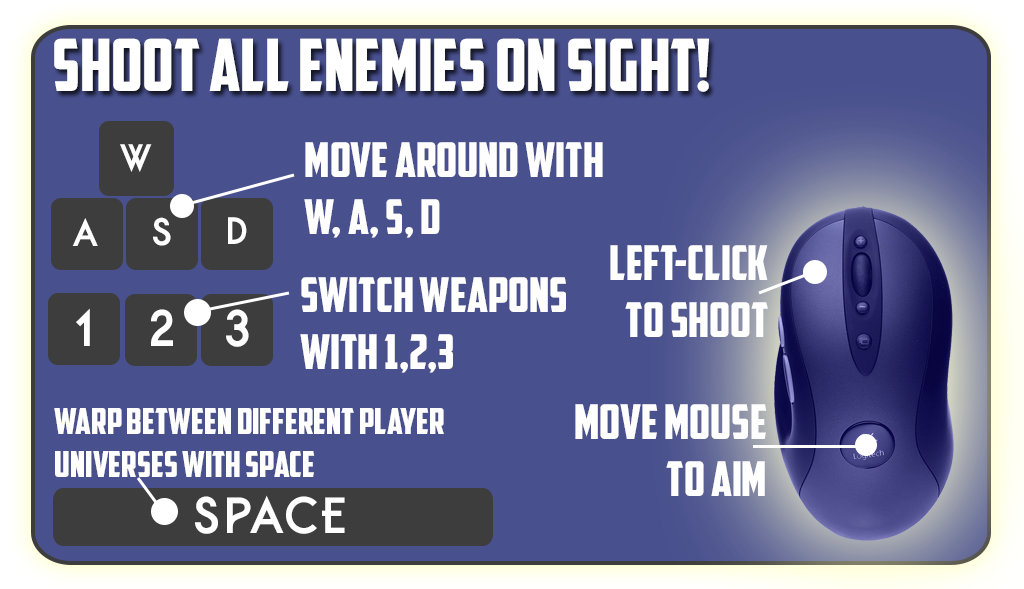
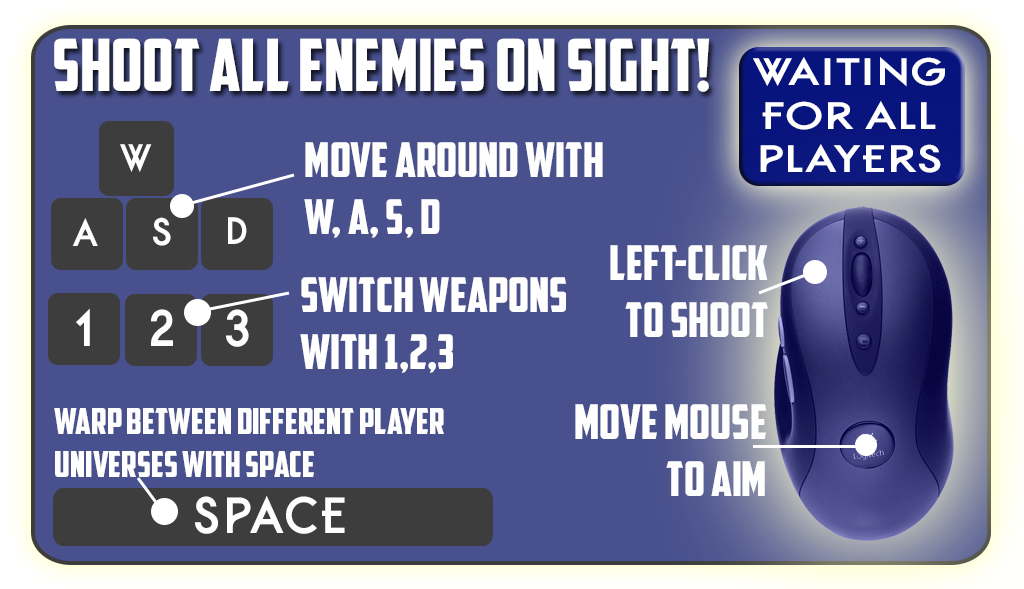
Game pause and countdown

Changed region(s): [[0.6875, 0.0306, 0.9688, 0.3667]]

diff --git a/Assets/Scripts/hud/HudOn.cs b/Assets/Scripts/hud/HudOn.cs
@@ -29,6 +29,8 @@ public class HudOn : MonoBehaviour {
 	private GUIStyle bank = new GUIStyle();
     public int startLivesNb;
 
+	private int countdownVal = 6;
+
 	public static Vector3 vortpointOut;
 	private bool showCountdown, showHelp;
 	public static float score;
@@ -248,6 +250,11 @@ public class HudOn : MonoBehaviour {
         }
     }
 
+	public void DisplayCountdown(int num) {
+		// Switch here, show desired image
+		countdownVal = num;
+	}
+
     public void ToastWrapper(string notetext) {
         //StartCoroutine("Toast", notetext);
 		queuedToastMessages.Enqueue(notetext);
@@ -274,14 +281,6 @@ public class HudOn : MonoBehaviour {
 				Destroy(toast);
 			}
 		}
-	}
-
-	IEnumerator ShowHelp()
-	{
-		showHelp = true;
-		yield return new WaitForSeconds(6);
-		showHelp = false;
-		yield return new WaitForSeconds(1);
 	}
 
     private int universeN()
@@ -318,10 +317,11 @@ public class HudOn : MonoBehaviour {
 		gameOverBeenDetected = false;
 
 		helpPic = (Texture2D) Resources.Load ("menu/howtocut");
-		StartCoroutine("ShowHelp");
 
 		queuedToastMessages = new Queue<string>();
 		StartCoroutine("Toast");
+
+		showHelp = true;
 	}
 
 	void startWithManager() {		
@@ -518,9 +518,18 @@ public class HudOn : MonoBehaviour {
 			GUI.Label(new Rect(screenPoint.x,screenPoint.y,10,10), vortexCountdownNum.ToString(), style);
 		}
 
-		if (showHelp) GUI.DrawTexture(new Rect(Screen.width*0.05,Screen.height*0.05,Screen.height*0.9f*1.72f,Screen.height*0.9f),helpPic);
+		if (showHelp) GUI.DrawTexture(new Rect(Screen.width*0.05f,Screen.height*0.05f,Screen.height*0.9f*1.72f,Screen.height*0.9f),helpPic);
 
-	}	
+		if (countdownVal > 0)
+		{
+			Texture2D number = (Texture2D) Resources.Load ("hud/numbers/"+countdownVal);
+			GUI.DrawTexture(new Rect(Screen.width/2-128,Screen.height/2-128,256,256),number);
+		}
+		else
+		{
+			showHelp = false;
+		}
+	}
 	
 	// Vortex logic
 	IEnumerator VortexCountdown()

diff --git a/Assets/Scripts/enemies/Commander.cs b/Assets/Scripts/enemies/Commander.cs
@@ -19,7 +19,7 @@ public class Commander : MonoBehaviour {
     public static int[] asteroidCount;
     public static int[] enemyCount;
 
-    private int currType = 0;
+    private int currType = 1;
     public GameObject[,] enemyTypes = new GameObject[4, 4];
 	
 	private Object[] enemyPrefabs;
@@ -223,7 +223,7 @@ public class Commander : MonoBehaviour {
         enemyTypes[3,3] = (GameObject)Resources.Load("enemies/enemytypes/alien/alien_superheavy", typeof(GameObject));
         currType = Random.Range(0, 4);
 
-		networkView.RPC("PlayEnemyTrack", RPCMode.Others, 278);
+		networkView.RPC("PlayEnemyTrack", RPCMode.Others, currType);
 
         int c = GameObject.FindGameObjectsWithTag("Player").Length;
         if (Network.isServer)
@@ -444,7 +444,7 @@ public class Commander : MonoBehaviour {
                 }
             }*/
 			currType = Random.Range(0, 4);
-			networkView.RPC("PlayEnemyTrack", RPCMode.Others, 278);
+			networkView.RPC("PlayEnemyTrack", RPCMode.Others, currType);
         }
     }
 
@@ -458,10 +458,10 @@ public class Commander : MonoBehaviour {
     }
 
 	[RPC]
-	private void PlayEnemyTrack()
+	private void PlayEnemyTrack(int cType)
 	{
 		string trackName = "";
-		switch(currType)
+		switch(cType)
 		{
 			case 0:
 				trackName = "vox";
@@ -472,7 +472,7 @@ public class Commander : MonoBehaviour {
 			case 2:
 				trackName = "merc";
 				break;
-			case3:
+			case 3:
 				trackName = "alien";
 				break;
 			default:

diff --git a/Assets/Scripts/network/Server.cs b/Assets/Scripts/network/Server.cs
@@ -137,13 +137,23 @@ public class Server : MonoBehaviour {
 		changeSystemNames(countUniverse);
         if (nextPlayerID == (countUniverse))
         {
-            lives = countUniverse * 3;
-            startGame = true;
-            EnableGameplayScripts();
-            foreach( GameObject g in GameObject.FindGameObjectsWithTag("Player")) g.GetComponent<PlayerMovement>().updateStartGame();
-            // Start the game when all players are in the game.
+            StartCoroutine("SetGameGoing");
         }
     }
+
+	private IEnumerator SetGameGoing() {
+		int countdown = 5;
+		for (int i = countdown; i > 0; i--) {
+			bridge.networkView.RPC("SendCountdownNumber",RPCMode.Others,i);
+			yield return new WaitForSeconds(1);
+		}
+		bridge.networkView.RPC("SendCountdownNumber",RPCMode.Others,-1);
+		lives = countUniverse * 3;
+        startGame = true;
+        EnableGameplayScripts();
+        foreach( GameObject g in GameObject.FindGameObjectsWithTag("Player")) g.GetComponent<PlayerMovement>().updateStartGame();
+        // Start the game when all players are in the game.
+	}
 
 	// When player disconnects, log event
     void OnPlayerDisconnected() {

diff --git a/Assets/Scripts/music/BGMusic.cs b/Assets/Scripts/music/BGMusic.cs
@@ -11,11 +11,6 @@ public class BGMusic : MonoBehaviour
 		PlayAmbientTrack();
 	}
 
-	void Update()
-	{
-		if (!audioplayer.isPlaying) PlayRandomTrack();
-	}
-
 	public void PlayRandomTrack()
 	{
 		Object[] clips = Resources.LoadAll("music/ingame");
@@ -48,6 +43,7 @@ public class BGMusic : MonoBehaviour
 	{
 		Object track = Resources.Load("music/ingame/" + trackname);
 		audioplayer.clip = (AudioClip) track;
+		Debug.Log (track.name);
 		audioplayer.Play();
 		audioplayer.loop = true;
 		audioplayer.volume = 1;

diff --git a/Assets/Scripts/network/Bridge.cs b/Assets/Scripts/network/Bridge.cs
@@ -46,6 +46,11 @@ public class Bridge : MonoBehaviour {
        hasClientLoaded.Add(player, false);
     }
 
+	[RPC]
+	public void SendCountdownNumber(int num) {
+		hudon.DisplayCountdown(num);
+	}
+
     [RPC]
     public void clientBridgeLoaded(NetworkPlayer player) {
         Debug.Log("ClientBridgeNowLoaded");
